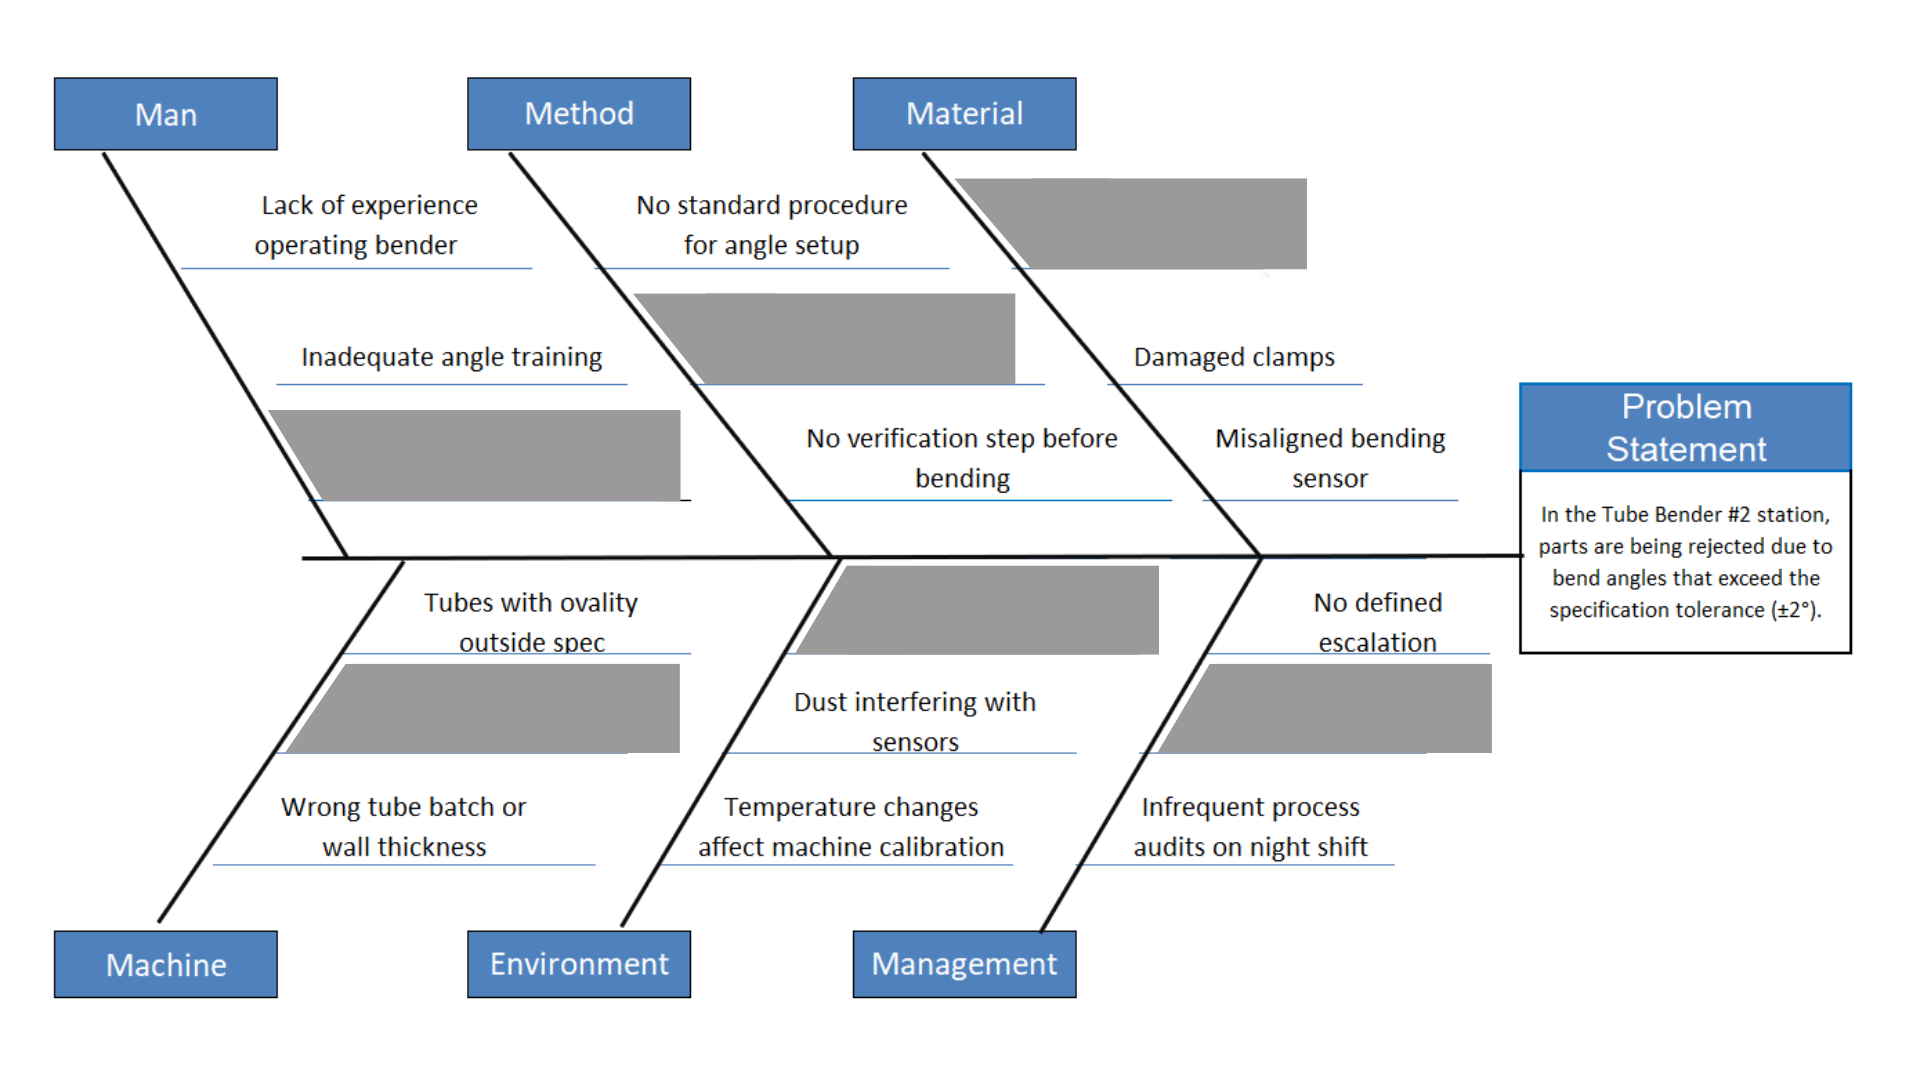
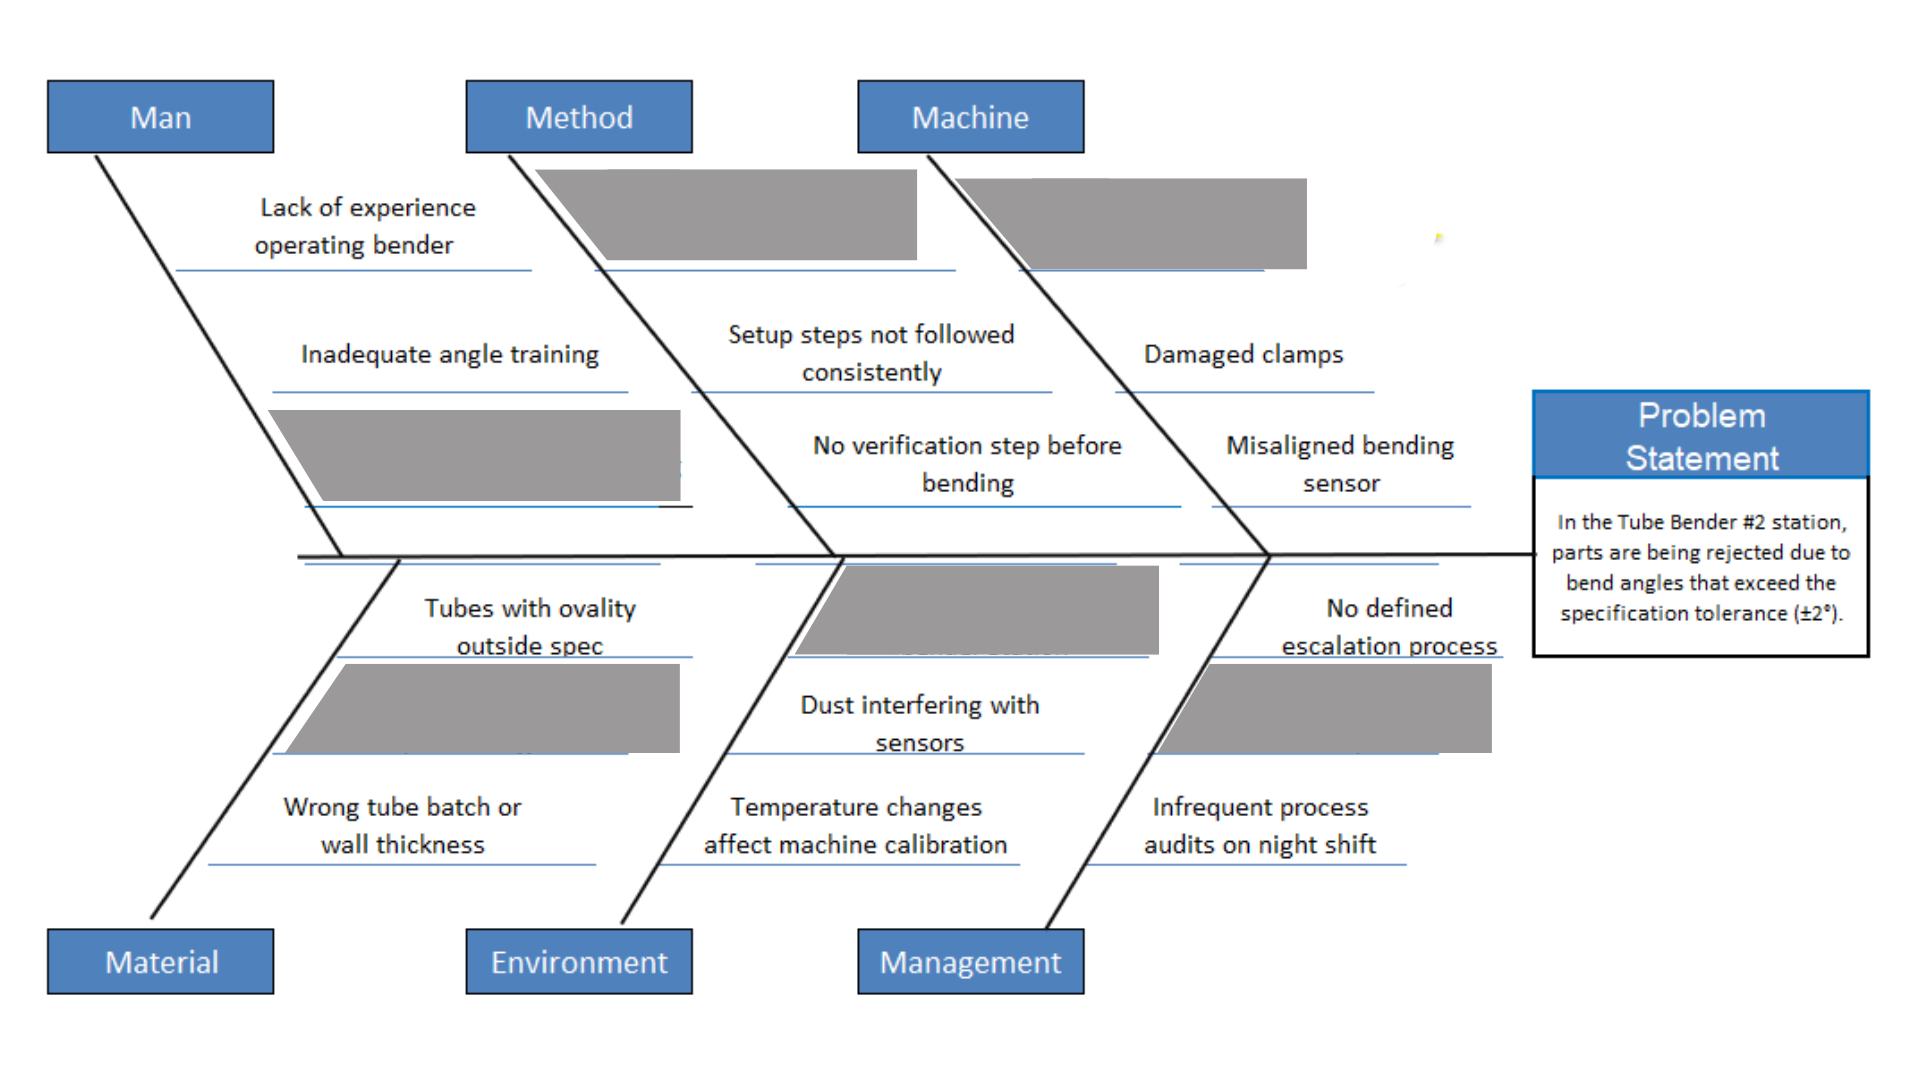
checkpoint

diff --git a/pg5.py b/pg5.py
@@ -2,7 +2,7 @@ import streamlit as st
 
 
 # Set up the Streamlit page
-st.set_page_config(page_title="Root Cause Analysis", layout="centered")
+st.set_page_config(page_title="Root Cause Analysis", layout="wide")
 if st.button("Return to Home Page"):
     st.switch_page("pgTitle.py")
 
@@ -25,9 +25,9 @@ st.markdown("Given the statement bank and the diagram below, enter the statement
 st.markdown("##### Fishbone Diagram")
 
 if st.session_state.activity5b:
-    st.image("pg5picSOLUTION.png")
+    st.image("pg5picSOLUTION.png", width=5)
 else:
-    st.image("pg5pic.png")
+    st.image("pg5pic.png", width=800)
 
 st.markdown("##### Statement Bank")
 p5code1 = '''
@@ -61,7 +61,7 @@ if "activity5a" not in st.session_state:
 # Button - submit code
 if st.button("Submit Answers", key="5a", type="primary"):
 
-    if man==2 and method==1 and material==4 and machine==6 and environment==3 and management==5:
+    if man==2 and method==1 and material==6 and machine==4 and environment==3 and management==5:
         st.session_state.activity5a = True
         st.success("You got it!")
     else:
@@ -75,19 +75,28 @@ if st.session_state.activity5a:
     st.markdown(":star: Direct cause, is the *MAIN* cause of variation in a process or product that is most responsible for the problem being investigated. It is the dominant cause among many potential contributors, and targeting it yields the maximum impact on solving the issue.")
     #Ishikawa option (using all 6 causes, select "direct" or "indirect")
     st.markdown("*ISHIKAWA MATRIX*")
-    answerP5Q2 = st.selectbox("Given the problem statement in the fishbone diagram above, identify the most direct cause.",
-                 ["Setup steps not followed consistently",
-                  "Inconsistent tube positioning",
-                  "Poor lighting around bender station",
-                  "Calibration tool worn out",
-                  "Lack of clear ownership",
-                  "Scratches or dents affect positioning"], index=None
-                )
+    left, right = st.columns([0.85, 0.15])
+    with left:
+        st.image("pg5pic2.png")
+    with right:
+        ishi1 = st.segmented_control("Man", ["Direct", "Indirect"], selection_mode="single",
+                                     default=None, key=6, label_visibility="hidden")
+        ishi2 = st.segmented_control("Method", ["Direct", "Indirect"], selection_mode="single",
+                                     default=None, key=7, label_visibility="hidden")
+        ishi3 = st.segmented_control("Material", ["Direct", "Indirect"], selection_mode="single",
+                                     default=None, key=8, label_visibility="hidden")
+        ishi4 = st.segmented_control("Machine", ["Direct", "Indirect"], selection_mode="single",
+                                     default=None, key=9, label_visibility="hidden")
+        ishi5 = st.segmented_control("Environment", ["Direct", "Indirect"], selection_mode="single",
+                                     default=None, key=10, label_visibility="hidden")
+        ishi6 = st.segmented_control("Management", ["Direct", "Indirect"], selection_mode="single",
+                                     default=None, key=11, label_visibility="hidden")
+
     
     # Button - submit code
     if st.button("Submit Answers", key="5b", type="primary"):
 
-        if answerP5Q2 == "Calibration tool worn out":
+        if True:
             st.session_state.activity5b = True
             st.success("You got it!")
         else:
@@ -134,6 +143,6 @@ if st.session_state.activity5b:
 if st.session_state.activity5c:
     st.markdown("---")
     st.write(":exclamation: A root cause and a symptom are **NOT** the same! A sympton is the visible effect, and the root cause is the underlying reason for the problem.")
-    st.image("pg5pic2.png")
+    st.image("pg5pic3.png")
     if st.button("PROCEED TO NEXT TASK", type="primary"):
             st.switch_page("pg6.py")

diff --git a/pg3.py b/pg3.py
@@ -39,13 +39,14 @@ pg3Q3 = st.radio(
     "The final countermeasure"],
     index=None, key="pg3Q3"
 )
-answerP3Q4 = "20%"
+st.image("pg3pic.png")
+answerP3Q4 = "Clamp Marks:   **20%**"
 pg3Q4 = st.radio(
-    "Q4. Verify the following project breakdown. If there is an error, select it below.",
-    ["%",
-    "%",
-    "20%",
-    "No errors found."],
+    "Q4. Verify the project breakdown above. If there is an error, select it below. Assume everything else is correct.",
+    ["Welding:   **25%**",
+    "Tube Bender #3:   **30%**",
+    "Clamp Marks:   **20%**",
+    "No errors found"],
     index=None, key="pg3Q4"
 )
 
